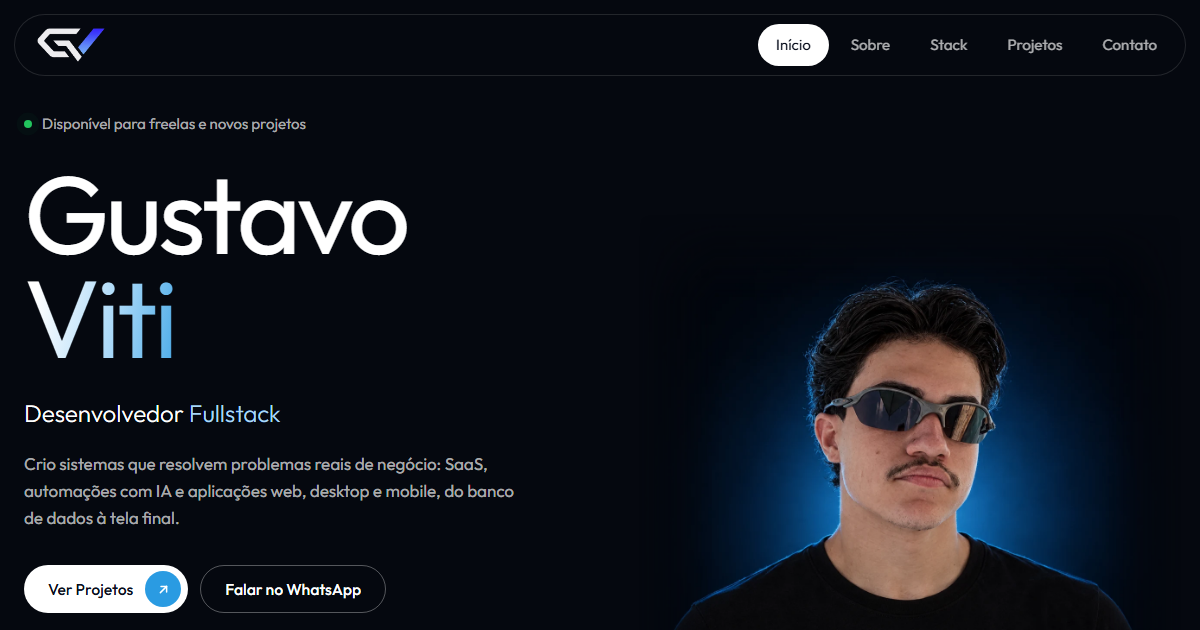
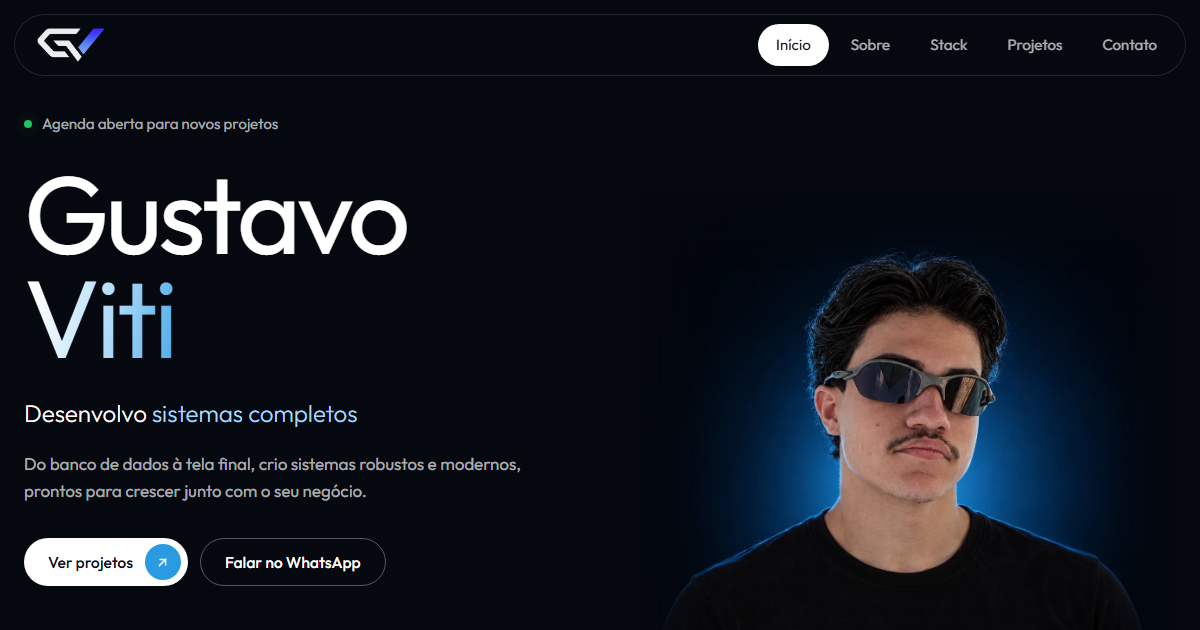
feat: reescreve textos para atrair clientes
- reforça sistemas completos, robustos e escaláveis
- remove a formação e o foco em vaga de emprego
- atualiza hero, sobre, projetos, contato, modal e SEO
- gera de novo a imagem de prévia do link

diff --git a/index.html b/index.html
@@ -1,21 +1,21 @@
 <!DOCTYPE html>
 <html lang="pt-BR">
 <head>
-  <title>Gustavo Viti | Desenvolvedor Fullstack, SaaS e Automação com IA</title>
+  <title>Gustavo Viti | Sistemas completos, SaaS e automações com IA</title>
   <meta charset="UTF-8">
   <meta name="viewport" content="width=device-width, initial-scale=1.0">
-  <meta name="description" content="Gustavo Viti cria SaaS, automações com IA e sistemas sob medida para web, desktop e mobile. Conheça o Turbo Dealer, o Viti Training e outros projetos reais.">
-  <meta name="keywords" content="Gustavo Viti, Desenvolvedor Fullstack, SaaS, Automação com IA, Sistemas sob medida, Node.js, React, TypeScript, PostgreSQL, Electron, Freelancer">
+  <meta name="description" content="Desenvolvo sistemas completos, robustos e escaláveis para web, desktop e mobile: SaaS, automações com IA e soluções sob medida para o seu negócio.">
+  <meta name="keywords" content="Gustavo Viti, desenvolvimento de sistemas, sistemas sob medida, SaaS, automação com IA, desenvolvedor fullstack, freelancer, Node.js, React, TypeScript, PostgreSQL">
   <meta name="author" content="Gustavo Viti">
   <link rel="canonical" href="https://gustavoviti.vercel.app/">
-  <meta property="og:title" content="Gustavo Viti | Fullstack, SaaS e Automação com IA">
-  <meta property="og:description" content="SaaS, automações com IA e sistemas sob medida para resolver problemas reais de negócio.">
+  <meta property="og:title" content="Gustavo Viti | Sistemas completos, SaaS e automações com IA">
+  <meta property="og:description" content="Sistemas completos, robustos e escaláveis, do banco de dados à tela final.">
   <meta property="og:image" content="https://gustavoviti.vercel.app/assets/image/preview.png">
   <meta property="og:url" content="https://gustavoviti.vercel.app/">
   <meta property="og:type" content="website">
   <meta name="twitter:card" content="summary_large_image">
-  <meta name="twitter:title" content="Gustavo Viti | Fullstack, SaaS e Automação com IA">
-  <meta name="twitter:description" content="SaaS, automações com IA e sistemas sob medida.">
+  <meta name="twitter:title" content="Gustavo Viti | Sistemas completos, SaaS e automações com IA">
+  <meta name="twitter:description" content="Sistemas completos, robustos e escaláveis, do banco de dados à tela final.">
   <meta name="twitter:image" content="https://gustavoviti.vercel.app/assets/image/preview.png">
   <link rel="icon" href="assets/image/favicon.png" type="image/png">
   <link rel="stylesheet" href="style/style.css">
@@ -78,7 +78,7 @@
       <div class="hero-text">
         <div class="availability-badge">
           <span class="pulse-dot"></span>
-          Disponível para freelas e novos projetos
+          Agenda aberta para novos projetos
         </div>
 
         <h1>
@@ -87,16 +87,16 @@
         </h1>
 
         <p class="hero-role">
-          Desenvolvedor <span class="role-cycle" id="roleCycle">Fullstack</span>
+          Desenvolvo <span class="role-cycle" id="roleCycle">sistemas completos</span>
         </p>
 
         <p class="hero-bio">
-          Crio sistemas que resolvem problemas reais de negócio: SaaS, automações com IA e aplicações web, desktop e mobile, do banco de dados à tela final.
+          Do banco de dados à tela final, crio sistemas robustos e modernos, prontos para crescer junto com o seu negócio.
         </p>
 
         <div class="hero-actions">
           <a href="#projetos" class="btn btn-primary">
-            Ver Projetos
+            Ver projetos
             <span class="btn-arrow" aria-hidden="true"><svg width="15" height="15" fill="none" stroke="currentColor" stroke-width="2.4" stroke-linecap="round" stroke-linejoin="round"><use href="#icon-arrow"/></svg></span>
           </a>
           <a href="https://wa.me/5519995780101?text=Olá%20Gustavo!%20Vi%20seu%20portfólio%20e%20quero%20conversar%20sobre%20um%20projeto." target="_blank" rel="noopener" class="btn btn-ghost">Falar no WhatsApp</a>
@@ -128,45 +128,45 @@
   <!-- ========== SOBRE ========== -->
   <section id="sobre" class="about">
     <div class="section-label">Sobre mim</div>
-    <h2 class="section-title">Da ideia ao sistema em uso</h2>
+    <h2 class="section-title">Tecnologia que acompanha o crescimento do seu negócio</h2>
 
     <div class="about-grid">
       <div class="about-text reveal">
-        <p>Programo desde <strong>2020</strong> e hoje me dedico a duas frentes: desenvolver e vender <strong>meus próprios produtos</strong> e criar <strong>sistemas sob medida</strong> para outros negócios.</p>
-        <p>Estou no último módulo de <strong>Análise e Desenvolvimento de Sistemas (ADS)</strong>.</p>
+        <p>Crio <strong>sistemas completos</strong> de ponta a ponta: interface, API, banco de dados, integrações e publicação. Você fala com uma pessoa só, do início ao sistema no ar.</p>
+        <p>Também desenvolvo <strong>meus próprios produtos</strong>, usados por outros negócios no dia a dia. É essa experiência com operação real que levo para cada projeto.</p>
         <ul class="feature-list">
           <li>
             <svg viewBox="0 0 24 24" fill="none" stroke="currentColor" stroke-width="2" stroke-linecap="round" stroke-linejoin="round" width="16" height="16"><ellipse cx="12" cy="5" rx="9" ry="3"/><path d="M21 12c0 1.66-4 3-9 3s-9-1.34-9-3"/><path d="M3 5v14c0 1.66 4 3 9 3s9-1.34 9-3V5"/></svg>
-            SaaS multi-tenant com dados isolados por cliente
+            <span><strong>Completos.</strong> Do login ao painel de gestão, com tudo integrado e funcionando em produção.</span>
           </li>
           <li>
             <svg viewBox="0 0 24 24" fill="none" stroke="currentColor" stroke-width="2" stroke-linecap="round" stroke-linejoin="round" width="16" height="16"><path d="M13 2 3 14h9l-1 8 10-12h-9l1-8z"/></svg>
-            Automações com IA e WhatsApp para a operação comercial
+            <span><strong>Robustos.</strong> Dados isolados por cliente, permissões por perfil e segurança pensada desde o início.</span>
           </li>
           <li>
             <svg viewBox="0 0 24 24" fill="none" stroke="currentColor" stroke-width="2" stroke-linecap="round" stroke-linejoin="round" width="16" height="16"><polyline points="16 18 22 12 16 6"/><polyline points="8 6 2 12 8 18"/></svg>
-            Do levantamento do problema ao deploy em produção
+            <span><strong>Escaláveis.</strong> Estrutura preparada para receber mais clientes, mais dados e novas funções.</span>
           </li>
         </ul>
-        <a href="#contato" class="btn btn-outline">Falar sobre um projeto</a>
+        <a href="#contato" class="btn btn-outline">Falar sobre o seu projeto</a>
       </div>
 
       <div class="about-stats reveal">
         <div class="stat-card">
-          <span class="stat-num">SaaS</span>
-          <span class="stat-desc">Produtos próprios</span>
+          <span class="stat-num">17</span>
+          <span class="stat-desc">Negócios usando meus produtos</span>
         </div>
         <div class="stat-card">
           <span class="stat-num">2020</span>
-          <span class="stat-desc">Início na programação</span>
+          <span class="stat-desc">Desenvolvendo desde</span>
         </div>
         <div class="stat-card">
           <span class="stat-num">Web</span>
           <span class="stat-desc">Desktop &amp; Mobile</span>
         </div>
         <div class="stat-card">
-          <span class="stat-num">ADS</span>
-          <span class="stat-desc">Cursando o último módulo</span>
+          <span class="stat-num">IA</span>
+          <span class="stat-desc">Integrada aos processos</span>
         </div>
       </div>
     </div>
@@ -175,7 +175,7 @@
   <!-- ========== STACK ========== -->
   <section id="stack" class="stack-section">
     <div class="section-label">Tecnologias</div>
-    <h2 class="section-title">O que eu uso</h2>
+    <h2 class="section-title">Tecnologias modernas, em todas as camadas</h2>
 
     <div class="stack-grid">
       <div class="stack-group reveal">
@@ -270,7 +270,7 @@
     </svg>
 
     <div class="section-label">Projetos</div>
-    <h2 class="section-title">Projetos em destaque</h2>
+    <h2 class="section-title">Sistemas que já saíram do papel</h2>
 
     <div class="projects-grid">
       <article class="project-card reveal">
@@ -282,7 +282,7 @@
             <h3>Turbo Dealer</h3>
             <span class="wip-badge wip-badge--live">5 operações usando</span>
           </div>
-          <p>Produto para repasses de veículos, nascido de um bot usado no dia a dia. Captura os carros dos grupos de WhatsApp, escreve o anúncio com IA, elimina duplicados, publica nas comunidades e mostra quais clientes do CRM procuram cada carro.</p>
+          <p>Plataforma completa para repasses de veículos, nascida de uma operação real. Captura os carros dos grupos de WhatsApp, escreve o anúncio com IA, elimina duplicados, publica nas comunidades e mostra quais clientes procuram cada carro, com app para PC e celular.</p>
           <div class="tech-tags">
             <span>Electron</span>
             <span>React</span>
@@ -314,7 +314,7 @@
             <h3>Viti Training</h3>
             <span class="wip-badge wip-badge--live">12 clientes ativos</span>
           </div>
-          <p>SaaS multi-tenant para academias e personal trainers. Reúne PWA instalável para os alunos, painel administrativo, gestão financeira e plano alimentar com IA, com identidade visual própria para cada cliente.</p>
+          <p>SaaS para academias e personal trainers, com app instalável para os alunos, painel administrativo, financeiro e plano alimentar com IA. Cada cliente opera com a própria marca e com os dados isolados dos demais.</p>
           <div class="tech-tags">
             <span>JavaScript ES6+</span>
             <span>PWA</span>
@@ -346,7 +346,7 @@
             <h3>Ferreira Repasse</h3>
             <span class="wip-badge">No ar em fase de demo</span>
           </div>
-          <p>Sistema completo para uma revenda de veículos: site público pronto para o Google, cadastro pelo celular, anúncios gerados a partir da foto do carro, registro de vendas com troca e painel com permissões por papel.</p>
+          <p>Sistema completo para uma revenda de veículos: site de vendas pronto para o Google, cadastro pelo celular, anúncios gerados a partir da foto do carro, registro de vendas com troca e painel com permissões para cada função da equipe.</p>
           <div class="tech-tags">
             <span>JavaScript ES6+</span>
             <span>PWA</span>
@@ -377,7 +377,7 @@
             <h3>Vitium</h3>
             <span class="wip-badge">Projeto pessoal</span>
           </div>
-          <p>Assistente de IA controlado por voz, com interface própria. Transcreve a fala localmente com Whisper, executa tarefas pelo Claude Code e usa um vault do Obsidian como memória de longo prazo.</p>
+          <p>Assistente de IA controlado por voz, criado para meu próprio uso. Transcreve a fala no próprio computador, executa tarefas com o Claude Code e guarda o que aprende em uma memória de longo prazo.</p>
           <div class="tech-tags">
             <span>Electron</span>
             <span>React</span>
@@ -497,8 +497,8 @@
   <!-- ========== CONTATO ========== -->
   <section id="contato" class="contact-section">
     <div class="section-label">Contato</div>
-    <h2 class="section-title">Vamos conversar?</h2>
-    <p class="contact-sub">Tem um processo para automatizar, um sistema para tirar do papel ou quer conhecer meus produtos? Me chama.</p>
+    <h2 class="section-title">Vamos tirar o seu sistema do papel?</h2>
+    <p class="contact-sub">Me conta qual problema você quer resolver, seja um processo para automatizar, um sistema novo ou um dos meus produtos.</p>
     <div class="contact-actions">
       <a href="https://wa.me/5519995780101?text=Olá%20Gustavo!%20Vi%20seu%20portfólio%20e%20quero%20conversar%20sobre%20um%20projeto." target="_blank" rel="noopener" class="btn btn-primary">
         Chamar no WhatsApp
@@ -563,7 +563,7 @@
 
   <!-- ========== FOOTER ========== -->
   <footer class="footer">
-    <p>© 2026 Gustavo Viti — Feito com dedicação.</p>
+    <p>© 2026 Gustavo Viti. Sistemas completos, do banco de dados à tela final.</p>
   </footer>
 
   <!-- ========== MODAL: Repositório Privado ========== -->
@@ -574,9 +574,9 @@
       <div class="priv-lock">
         <svg xmlns="http://www.w3.org/2000/svg" viewBox="0 0 24 24" fill="none" stroke="currentColor" stroke-width="1.5" stroke-linecap="round" stroke-linejoin="round" aria-hidden="true"><rect x="3" y="11" width="18" height="11" rx="2" ry="2"/><path d="M7 11V7a5 5 0 0110 0v4"/></svg>
       </div>
-      <h4 id="privTitle">Repositório Privado</h4>
+      <h4 id="privTitle">Código privado</h4>
       <p class="priv-project" id="privProjectName">—</p>
-      <p class="priv-desc">Este projeto contém código proprietário e não pode ser disponibilizado publicamente. Posso apresentar a arquitetura e o funcionamento em uma conversa, é só me chamar.</p>
+      <p class="priv-desc">O código deste projeto não é público. Posso mostrar a arquitetura e o funcionamento em uma conversa, é só me chamar.</p>
       <div class="priv-pills">
         <span>Código proprietário</span>
         <span>Disponível sob solicitação</span>
@@ -629,7 +629,7 @@
     }, { passive: true });
 
     /* ── Role cycling ── */
-    const roles = ['Fullstack', 'de SaaS', 'de automações com IA'];
+    const roles = ['sistemas completos', 'SaaS escaláveis', 'automações com IA'];
     let roleIdx = 0;
     const roleEl = document.getElementById('roleCycle');
     if (!window.matchMedia('(prefers-reduced-motion: reduce)').matches) setInterval(() => {

diff --git a/style/style.css b/style/style.css
@@ -383,7 +383,7 @@ section { position: relative; padding: var(--pad-y) var(--pad-x); }
 .about-grid { display: grid; gap: clamp(48px, 7vw, 88px); }
 
 .about-text p {
-  max-width: 34ch;
+  max-width: 42ch;
   font-size: clamp(1.45rem, 3vw, 2.3rem);
   font-weight: 300;
   line-height: 1.28;
@@ -391,7 +391,6 @@ section { position: relative; padding: var(--pad-y) var(--pad-x); }
   margin-bottom: 18px;
 }
 .about-text strong { font-weight: 500; }
-.about-text p:first-child { max-width: 42ch; }
 
 .feature-list {
   display: grid;
@@ -406,6 +405,7 @@ section { position: relative; padding: var(--pad-y) var(--pad-x); }
   color: var(--on-light-2);
 }
 .feature-list svg { flex-shrink: 0; margin-top: 5px; color: var(--blue-text); }
+.feature-list strong { font-weight: 500; color: var(--on-light); }
 
 .about-stats {
   display: grid;

diff --git a/README.md b/README.md
@@ -2,7 +2,7 @@
 
 <div align="center">
 
-### 👨💻 Desenvolvedor Fullstack  
+### 👨💻 Sistemas completos, robustos e escaláveis  
 SaaS, automações com IA e sistemas sob medida.
 
 🌐 **Acesse online:**  
@@ -72,7 +72,7 @@ HTML5 • CSS3 • JavaScript • IntersectionObserver • Flexbox • CSS Grid 
 
 ## 🎯 Objetivo
 
-Apresentar meus produtos e projetos para quem procura um sistema sob medida, uma automação ou quer conhecer o que já construí.
+Apresentar meus produtos e projetos para quem procura um sistema completo, uma automação ou quer conhecer o que já construí.
 
 ---
 
